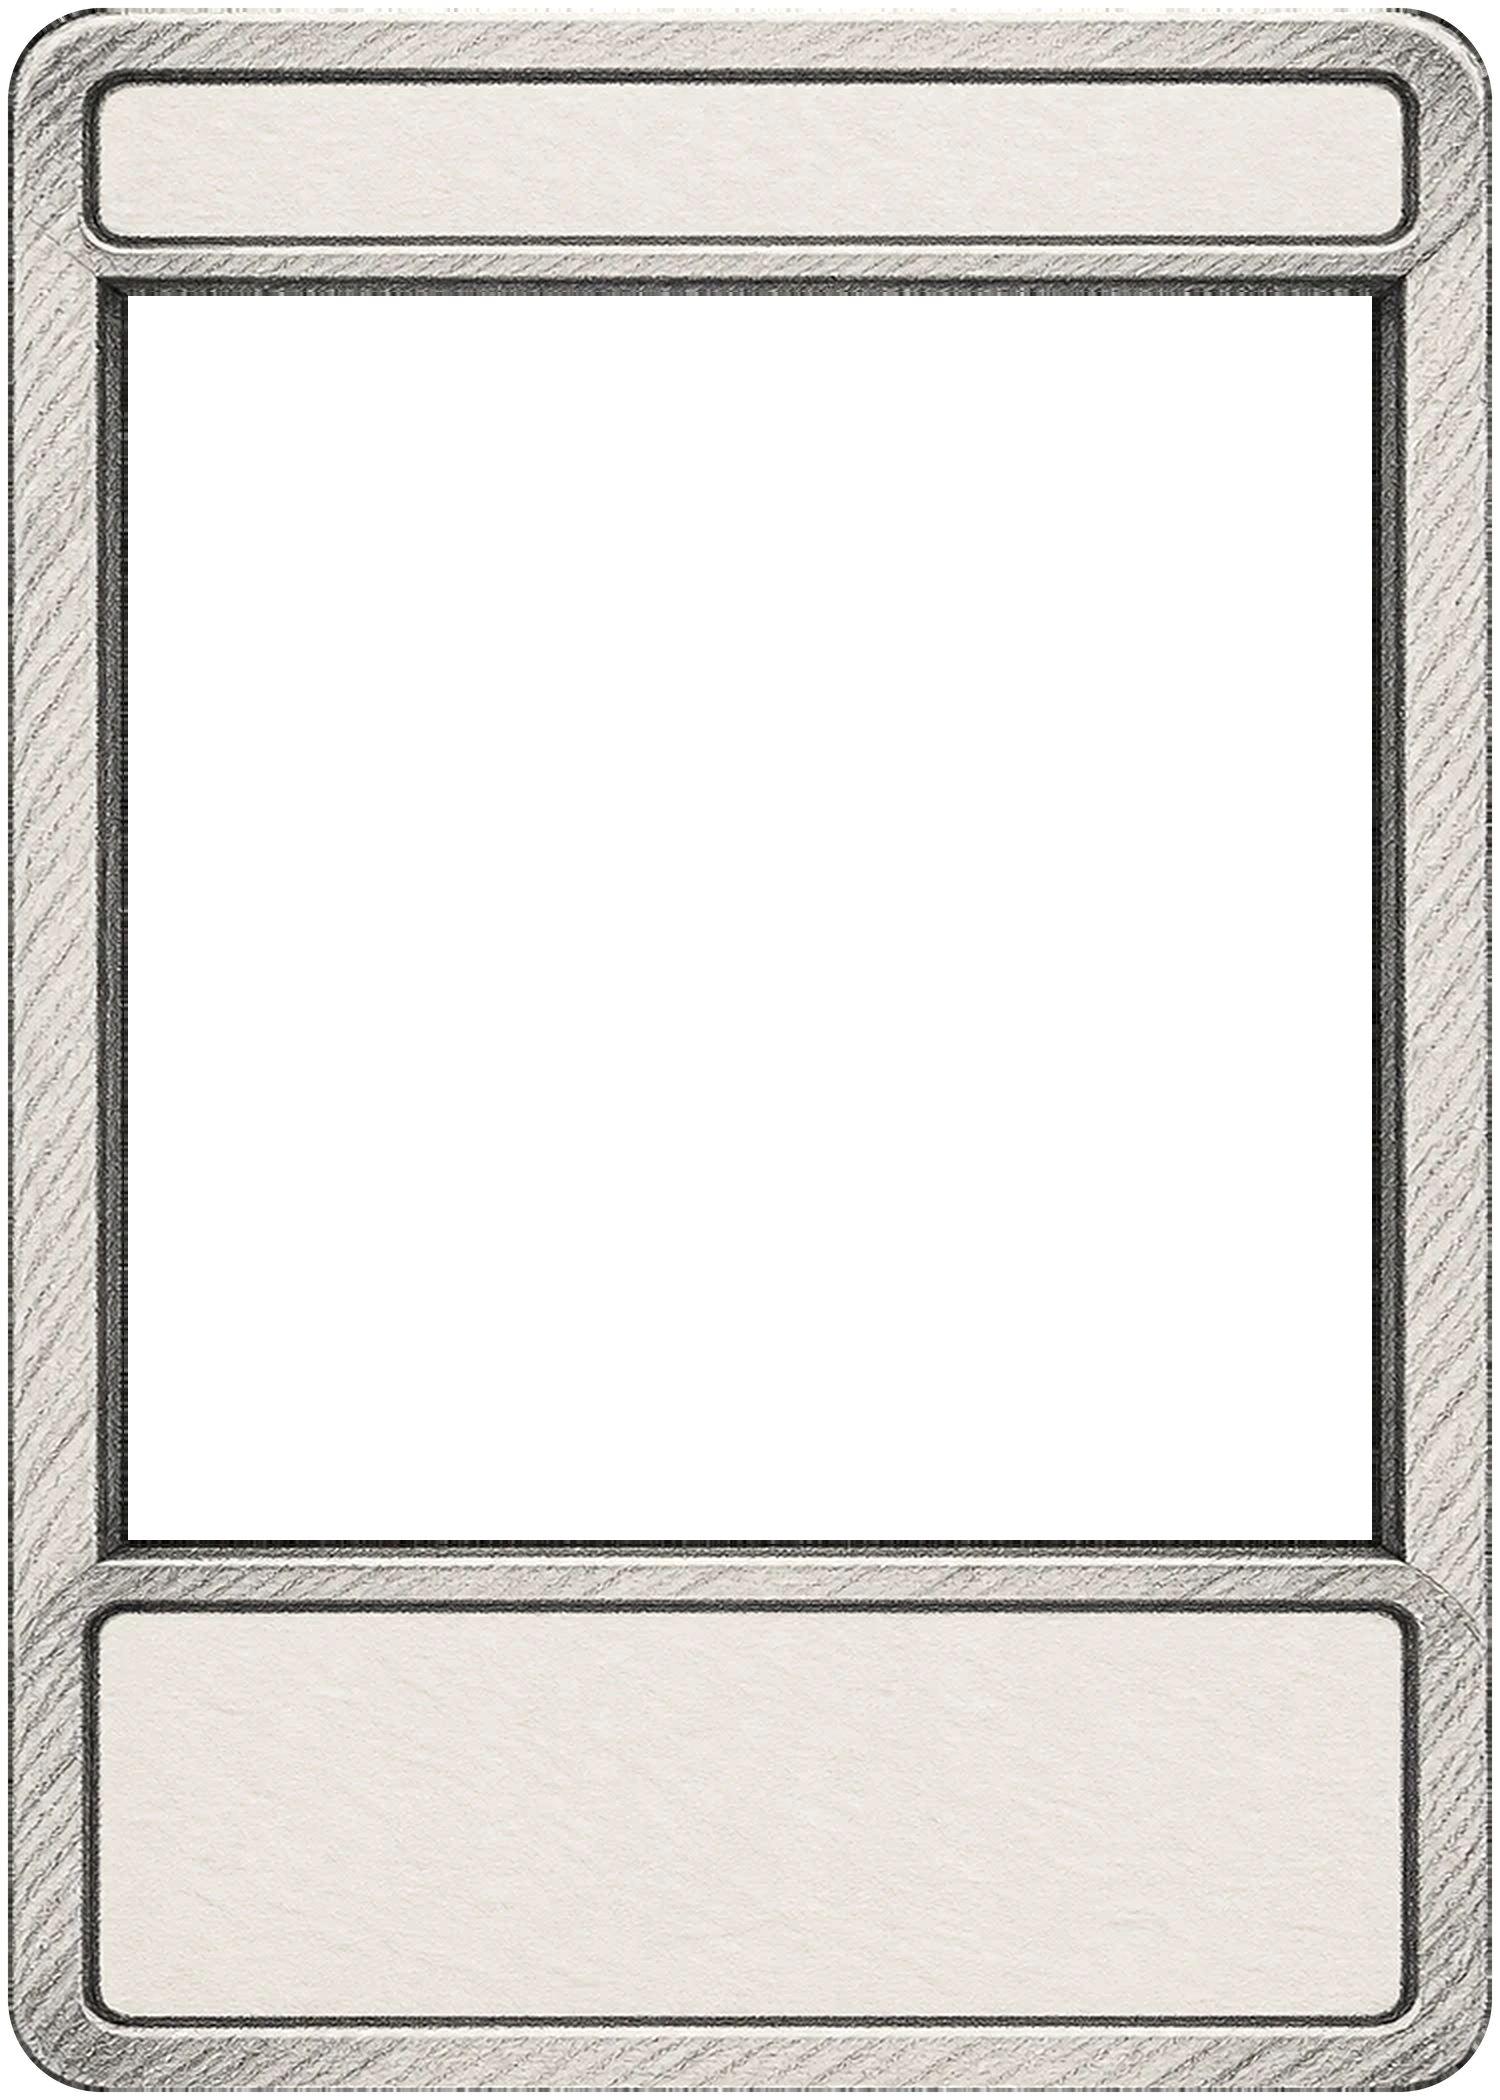
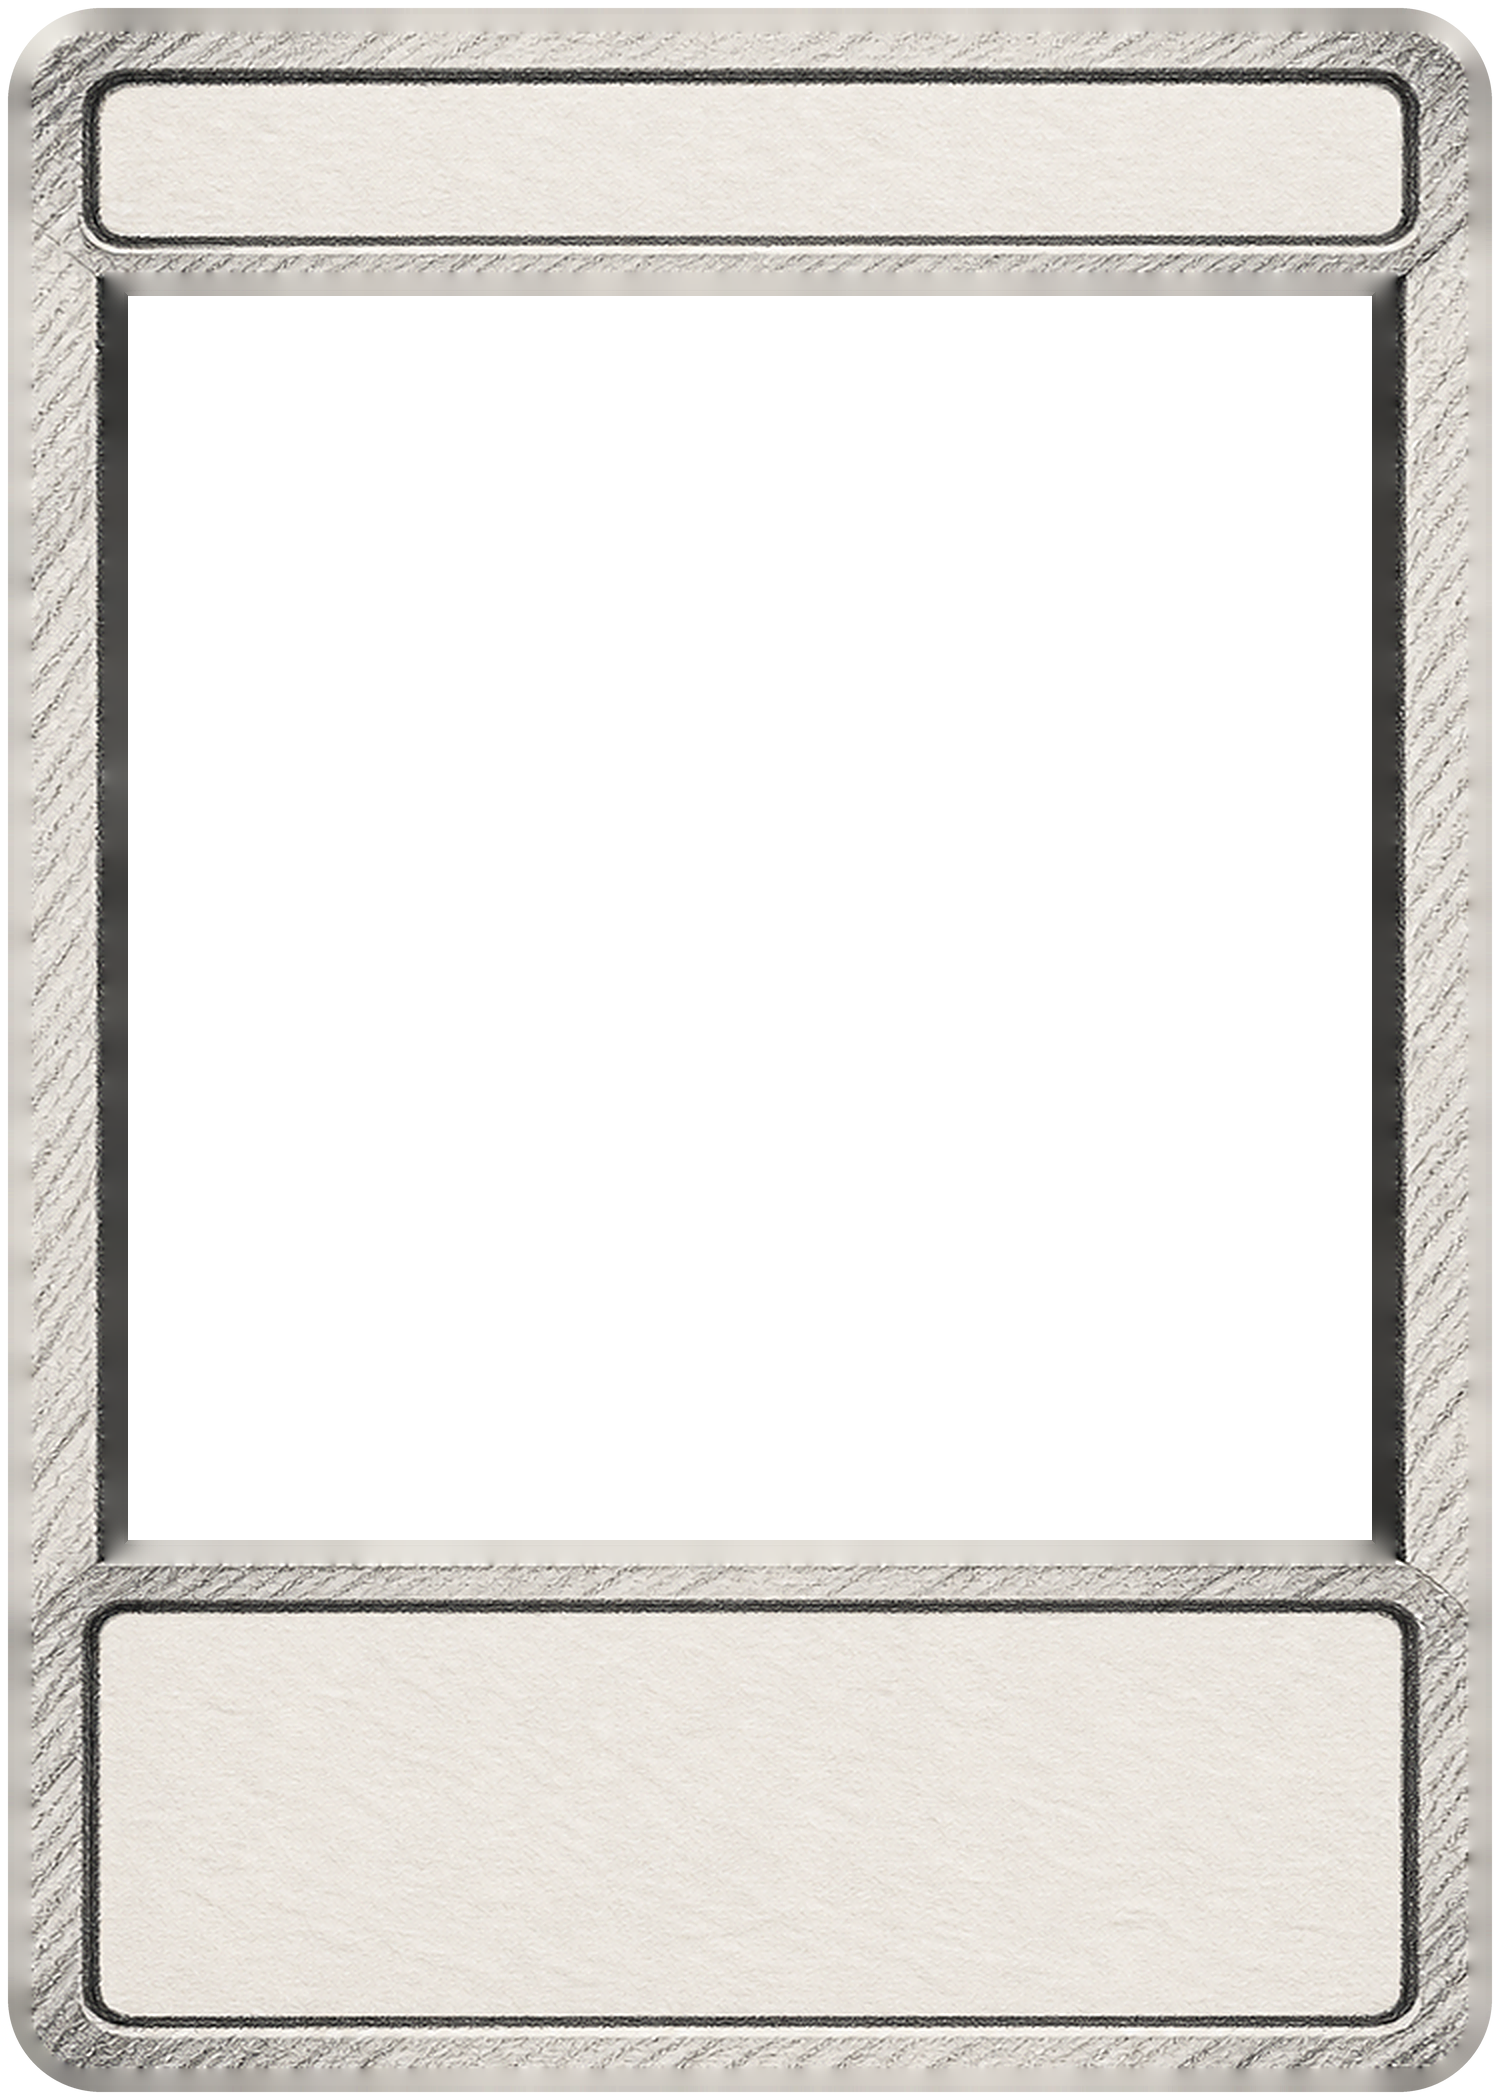
Card Studio: the approved 10-frame set (all materials, normal + holo)
Replaces the first five frames. Same geometry, cleaned by clean_frames.py.

Claude-Session: https://claude.ai/code/session_01LEzX9WUx8sWcSwwRyLeaEz

Changed region(s): [[0.0, 0.0, 1.0, 1.0], [0.0613, 0.1238, 0.9507, 0.7429]]

diff --git a/studio/src/frames.ts b/studio/src/frames.ts
@@ -3,24 +3,29 @@
  *  Every frame shares FRAME_GEOMETRY, so one layout fits them all. A missing frame blocks approval of any Fire that
  *  deals that material + variant. */
 
+import burning from './assets/frames/burning.webp'
 import burningHolo from './assets/frames/burning-holo.webp'
-import paperHolo from './assets/frames/paper-holo.webp'
+import charcoal from './assets/frames/charcoal.webp'
+import charcoalHolo from './assets/frames/charcoal-holo.webp'
+import diamond from './assets/frames/diamond.webp'
+import diamondHolo from './assets/frames/diamond-holo.webp'
 import paper from './assets/frames/paper.webp'
-import woodHolo from './assets/frames/wood-holo.webp'
+import paperHolo from './assets/frames/paper-holo.webp'
 import wood from './assets/frames/wood.webp'
+import woodHolo from './assets/frames/wood-holo.webp'
 import { MATERIALS, type Material } from './rules'
 import { VARIANTS, type Rect, type Variant } from './types'
 
 export const BUILTIN_FRAMES: Record<Material, Partial<Record<Variant, string>>> = {
   paper: { normal: paper, holo: paperHolo },
   wood: { normal: wood, holo: woodHolo },
-  burning: { holo: burningHolo },
-  charcoal: {},
-  diamond: {},
+  burning: { normal: burning, holo: burningHolo },
+  charcoal: { normal: charcoal, holo: charcoalHolo },
+  diamond: { normal: diamond, holo: diamondHolo },
 }
 
 /** Bump when a frame file is added or changed: approvals made before this go stale and must be redone. */
-export const FRAMES_UPDATED_AT = Date.UTC(2026, 9, 3)
+export const FRAMES_UPDATED_AT = Date.UTC(2026, 9, 3, 12)
 
 /** Measured from the templates (1500 x 2100). Identical on every frame. */
 export const FRAME_GEOMETRY = {

diff --git a/studio/frames-src/clean_frames.py b/studio/frames-src/clean_frames.py
@@ -1,4 +1,4 @@
-"""Turns the owner's frame templates (frames-src/originals/*.webp, 750 x 1050) into the master frames the studio ships
+"""Turns the owner's frame templates (frames-src/originals/*.png, 750 x 1050) into the master frames the studio ships
 (src/assets/frames/*.webp, 1500 x 2100, lossless). Every frame gets exactly the same treatment, so they stay identical:
 
   1. faithful 2x upscale (premultiplied-alpha Lanczos + light unsharp mask; no AI, the texture is not repainted)
@@ -61,7 +61,7 @@ if __name__ == '__main__':
     outer = outline()
     os.makedirs(OUT, exist_ok=True)
     for f in sorted(os.listdir(SRC)):
-        if not f.endswith('.webp'):
+        if not f.endswith(('.webp', '.png')):
             continue
-        Image.fromarray(clean(upscale(os.path.join(SRC, f)), outer)).save(os.path.join(OUT, f), 'WEBP', lossless=True, quality=100, method=6)
+        Image.fromarray(clean(upscale(os.path.join(SRC, f)), outer)).save(os.path.join(OUT, os.path.splitext(f)[0] + '.webp'), 'WEBP', lossless=True, quality=100, method=6)
         print('ok', f)

diff --git a/docs/card-studio.md b/docs/card-studio.md
@@ -41,7 +41,7 @@ Owner decisions, Oct 1 2026, on top of `NFT_Card_Fire_System_Handoff` (Sept 30).
 ## Decided Oct 3
 - **Frames are built in and locked.** The owner's master frames ship with the studio (`studio/src/assets/frames`,
   cleaned from `studio/frames-src` by `clean_frames.py`). The only thing dropped in per card is the character image.
-  A full new set (with a better holo) is being made in ChatGPT and will replace the current five.
+  The set is the 10 "OMNI Prismatic" frames (all 5 materials, normal + holo), approved Oct 3.
 - **Holo comes from the frame art itself**, not a code effect. Procedural foils were prototyped and rejected.
 - **PSA wear is designed into the frames:** 6 wear levels, each a full frame per material x normal/holo
   (6 x 5 x 2 = 60 frames). The clean frame is used before the grade is revealed.
